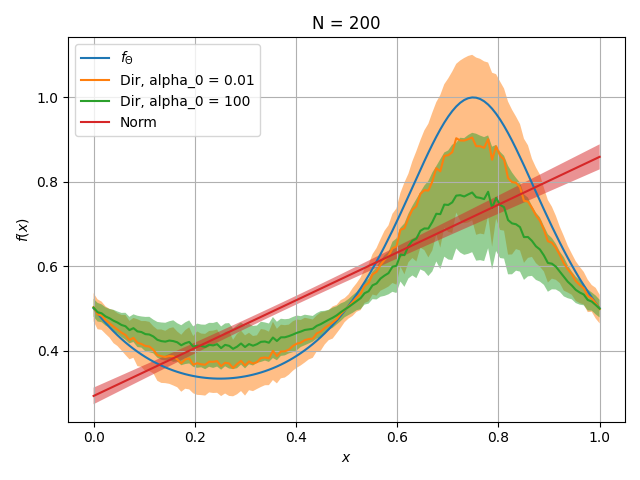
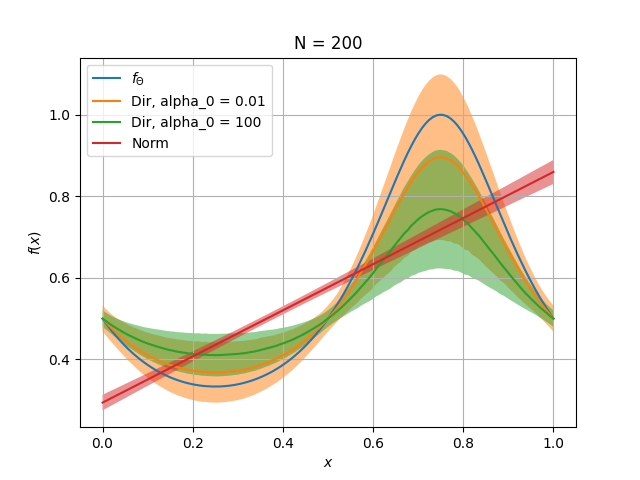
Hi-fi predict fig

diff --git a/Code/PGR_thesis/main.py b/Code/PGR_thesis/main.py
@@ -108,17 +108,17 @@ norm_predictor = BayesRegressor(bayes_models.NormalLinear(prior_mean=w_prior, pr
                                                           basis_y_x=None, cov_y_x=.1,
                                                           model_x=prior_mean.model_x), name='Norm')
 
-norm_params = None
+# norm_params = None
 # norm_params = {'prior_cov': [10, 0.05]}
-# norm_params = {'prior_cov': [100, .01]}
+norm_params = {'prior_cov': [100, .01]}
 # norm_params = {'prior_cov': [100]}
 
 
 # Plotting
 
-n_train = 200
+# n_train = 200
 # n_train = [0, 10, 100]
-# n_train = np.arange(0, 520, 20)
+n_train = np.arange(0, 620, 20)
 
 # print(dir_predictor.risk_eval_sim(model, dir_params, n_train, n_test=1, n_mc=20000, verbose=True, rng=None))
 # dir_predictor.plot_risk_eval_sim(model, dir_params, n_train, n_test=1, n_mc=5000, verbose=True, rng=None)
@@ -130,18 +130,18 @@ temp = [
     (norm_predictor, norm_params),
 ]
 
-predictors, params = list(zip(*temp))
-
 # FIXME: discrete plot for predict stats
 # TODO: save fig
 # TODO: redo SSP p_dir fig
 
-# plot_risk_eval_sim_compare(predictors, model_eval, params, n_train=n_train, n_test=1, n_mc=200,
-#                            verbose=True, ax=None, rng=None)
+predictors, params = list(zip(*temp))
+
+plot_risk_eval_sim_compare(predictors, model_eval, params, n_train=n_train, n_test=1, n_mc=50000,
+                           verbose=True, ax=None, rng=None)
 # plot_risk_eval_comp_compare(predictors, model_eval, params, n_train, n_test=1, verbose=False, ax=None)
 
-plot_predict_stats_compare(predictors, model_eval, params, x=None, n_train=n_train, n_mc=50000,
-                           do_std=True, verbose=True, ax=None, rng=None)
+# plot_predict_stats_compare(predictors, model_eval, params, x=None, n_train=n_train, n_mc=300,
+#                            do_std=True, verbose=True, ax=None, rng=None)
 
 
 # print(f"\nAnalytical Risk = {opt_predictor.evaluate_comp(n_train=n_train)}")
